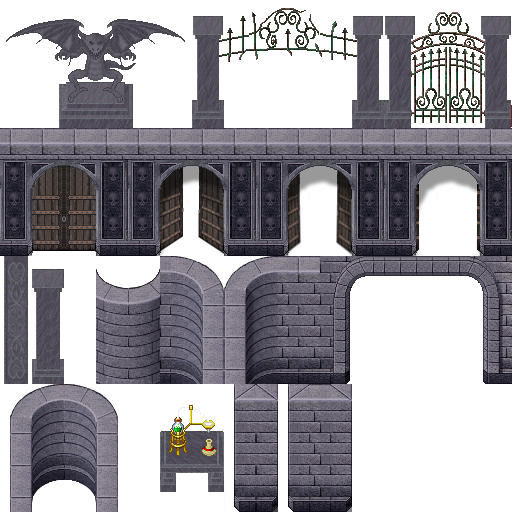
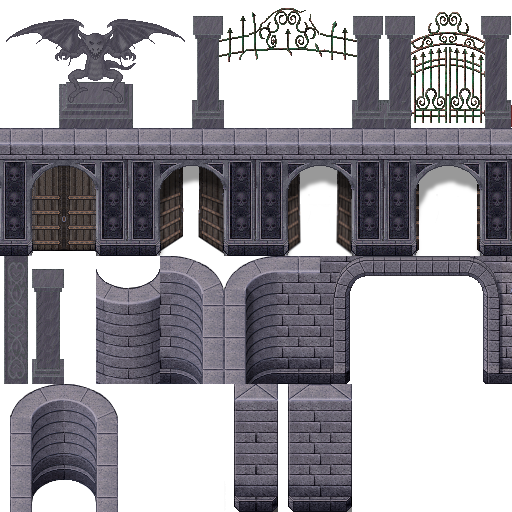
fixed animation with current manaplus and csv

Changed region(s): [[0.3125, 0.7812, 0.4375, 0.9688]]

diff --git a/tilesets/stone-lab.tsx b/tilesets/stone-lab.tsx
@@ -1,0 +1,24 @@
+<?xml version="1.0" encoding="UTF-8"?>
+<tileset name="stone-lab" tilewidth="96" tileheight="128">
+ <image source="../graphics/tiles/stone-lab.png" width="384" height="256"/>
+ <tile id="8">
+  <properties>
+   <property name="animation-delay0" value="5"/>
+   <property name="animation-delay1" value="5"/>
+   <property name="animation-delay2" value="5"/>
+   <property name="animation-delay3" value="5"/>
+   <property name="animation-delay4" value="5"/>
+   <property name="animation-delay5" value="5"/>
+   <property name="animation-delay6" value="5"/>
+   <property name="animation-delay7" value="5"/>
+   <property name="animation-frame0" value="1"/>
+   <property name="animation-frame1" value="2"/>
+   <property name="animation-frame2" value="3"/>
+   <property name="animation-frame3" value="4"/>
+   <property name="animation-frame4" value="5"/>
+   <property name="animation-frame5" value="6"/>
+   <property name="animation-frame6" value="7"/>
+   <property name="animation-frame7" value="0"/>
+  </properties>
+ </tile>
+</tileset>
